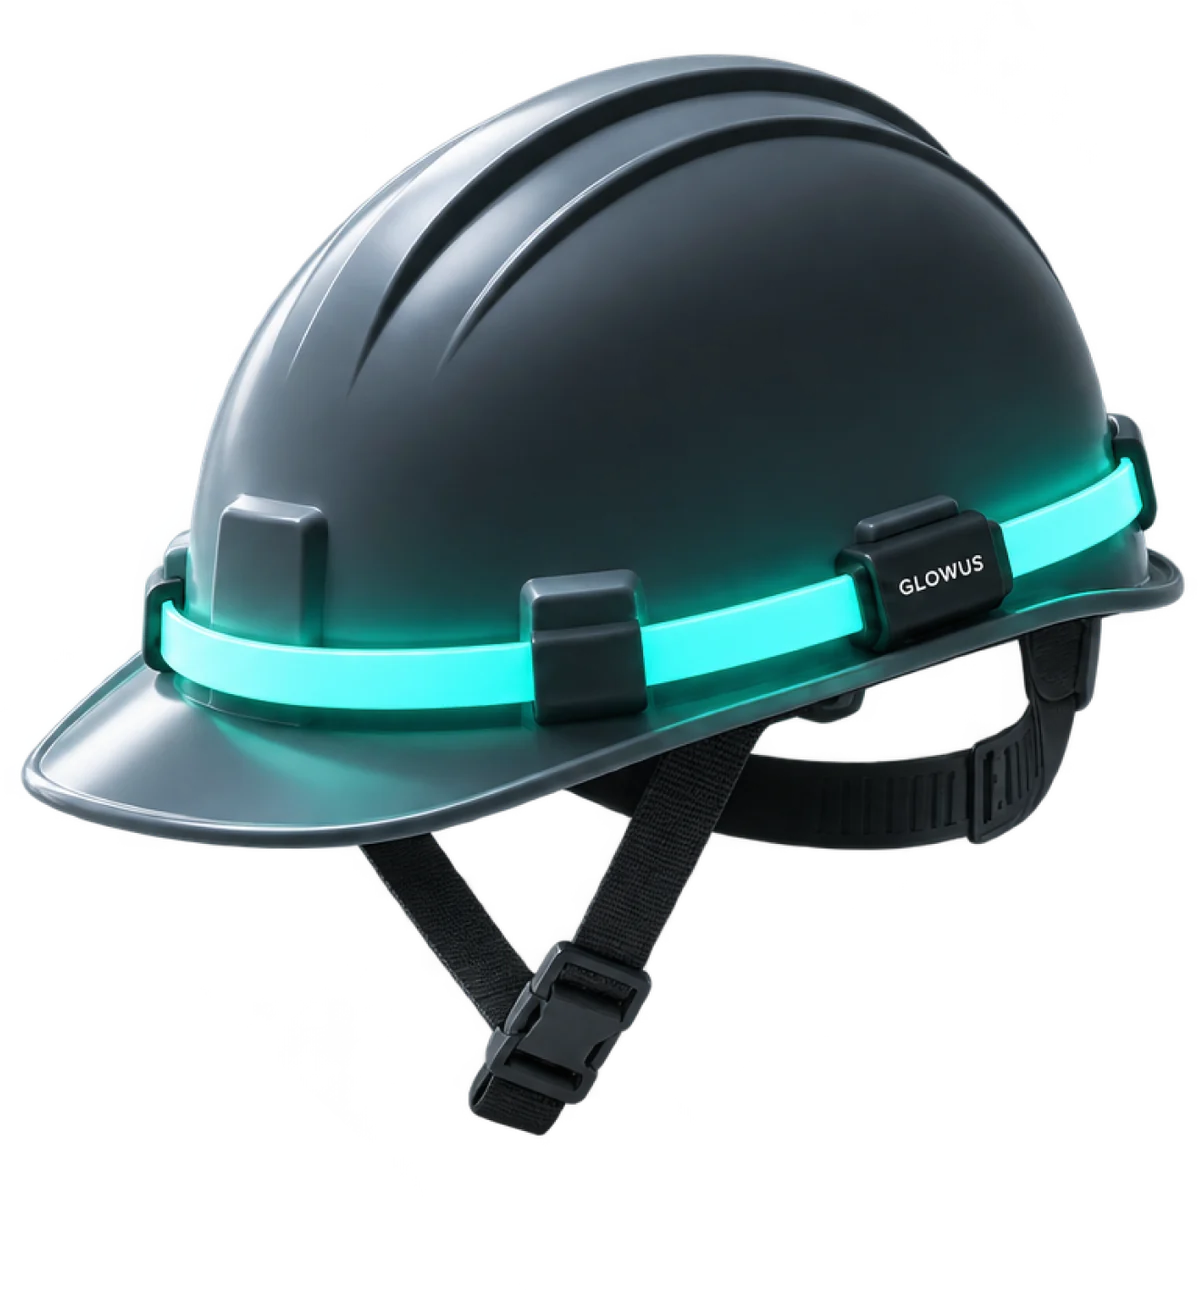
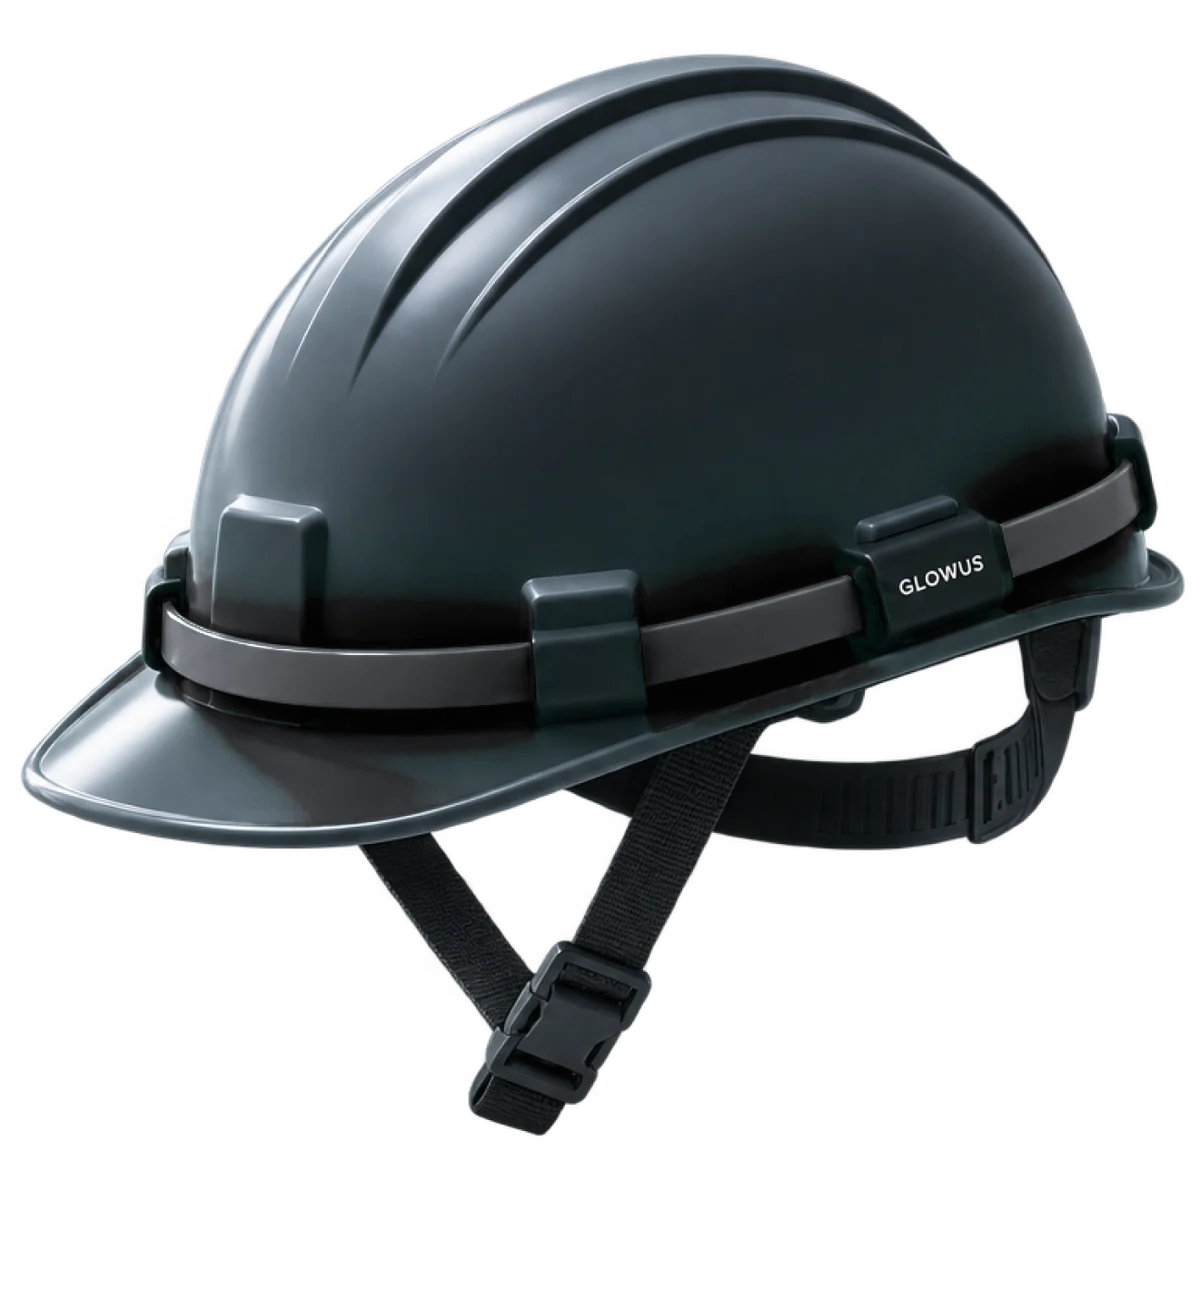
히어로 안전모 바탕 그림을 띠가 꺼진 상태로 교체해 서서히 켜지는 효과가 보이도록

Changed region(s): [[0.0617, 0.4031, 0.4625, 0.6512], [0.5242, 0.4031, 0.74, 0.5891], [0.7708, 0.3101, 0.9867, 0.4961]]

diff --git a/index.html b/index.html
@@ -7,9 +7,9 @@
 <meta name="description" content="주식회사 글로우어스는 초박형 면발광 FLD와 EL Display로 작업자·도로·시설물의 야간 안전을 만드는 야간 안전 솔루션 전문기업입니다.">
 <meta property="og:title" content="GLOWUS 글로우어스 — Light for safer nights">
 <meta property="og:description" content="선명한 빛으로, 더 안전한 야간 환경을 만듭니다. FLD · EL Display 야간 안전 솔루션">
-<meta property="og:image" content="assets/brand/helmet.webp">
+<meta property="og:image" content="assets/brand/helmet.webp?v=2">
 <meta name="theme-color" content="#000000">
-<link rel="preload" as="image" href="assets/brand/helmet.webp">
+<link rel="preload" as="image" href="assets/brand/helmet.webp?v=2">
 <link rel="stylesheet" href="https://cdn.jsdelivr.net/gh/orioncactus/pretendard@v1.3.9/dist/web/variable/pretendardvariable-dynamic-subset.min.css" integrity="sha384-GIdEBaqGN9mNkDkMkzMHW8EKUqtpPIe/sLj1X7DIrnc9uPtLROJgmuDlh+3rBw0j" crossorigin="anonymous">
 <link rel="stylesheet" href="css/style.css?v=3">
 <style>
@@ -184,7 +184,7 @@ a:hover .more .arr,.more:hover .arr{transform:translateX(4px)}
 <section class="scene" id="scene" aria-label="GLOWUS 소개">
   <div class="stage">
     <div class="arc" aria-hidden="true">
-      <img class="base" src="assets/brand/helmet.webp" alt="" width="1200" height="1290">
+      <img class="base" src="assets/brand/helmet.webp?v=2" alt="" width="1200" height="1290">
       <div class="glowpack">
         <img class="g3" src="assets/brand/helmet-glow.webp" alt="">
         <img class="g2" src="assets/brand/helmet-glow.webp" alt="">

diff --git a/contact.html b/contact.html
@@ -6,7 +6,7 @@
 <title>협업 · 문의 | GLOWUS 글로우어스</title>
 <meta name="description" content="FLD · EL Display 공동개발 · 맞춤 제작 협업 방식과 개발 프로세스, 문의하기.">
 <meta property="og:title" content="협업 · 문의 | GLOWUS 글로우어스">
-<meta property="og:image" content="assets/brand/helmet.webp">
+<meta property="og:image" content="assets/brand/helmet.webp?v=2">
 <meta name="theme-color" content="#000000">
 <link rel="stylesheet" href="https://cdn.jsdelivr.net/gh/orioncactus/pretendard@v1.3.9/dist/web/variable/pretendardvariable-dynamic-subset.min.css" integrity="sha384-GIdEBaqGN9mNkDkMkzMHW8EKUqtpPIe/sLj1X7DIrnc9uPtLROJgmuDlh+3rBw0j" crossorigin="anonymous">
 <link rel="stylesheet" href="css/style.css?v=3">

diff --git a/company.html b/company.html
@@ -6,7 +6,7 @@
 <title>회사소개 | GLOWUS 글로우어스</title>
 <meta name="description" content="주식회사 글로우어스 회사 개요, 연혁, 특허 및 시험·인증, 오시는 길.">
 <meta property="og:title" content="회사소개 | GLOWUS 글로우어스">
-<meta property="og:image" content="assets/brand/helmet.webp">
+<meta property="og:image" content="assets/brand/helmet.webp?v=2">
 <meta name="theme-color" content="#000000">
 <link rel="stylesheet" href="https://cdn.jsdelivr.net/gh/orioncactus/pretendard@v1.3.9/dist/web/variable/pretendardvariable-dynamic-subset.min.css" integrity="sha384-GIdEBaqGN9mNkDkMkzMHW8EKUqtpPIe/sLj1X7DIrnc9uPtLROJgmuDlh+3rBw0j" crossorigin="anonymous">
 <link rel="stylesheet" href="css/style.css?v=3">
